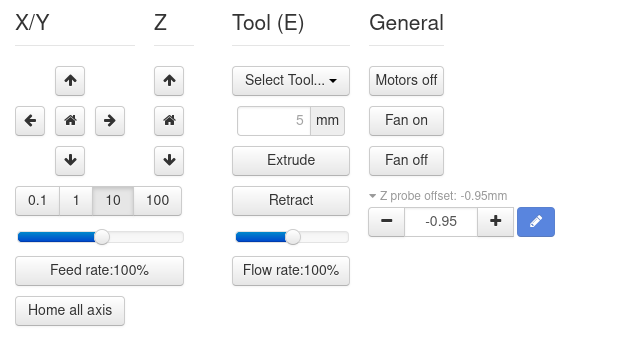
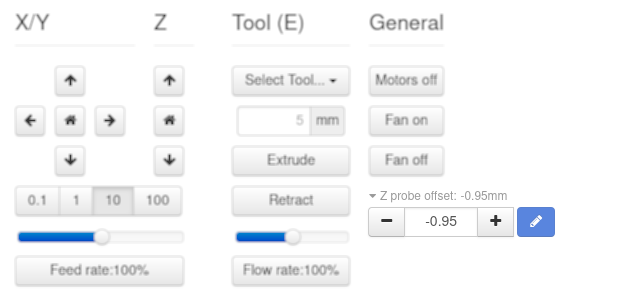
z_probe_offset (#540)
Update descripton and screenshot

diff --git a/_plugins/z_probe_offset.md b/_plugins/z_probe_offset.md
@@ -3,7 +3,7 @@ layout: plugin
 
 id: z_probe_offset
 title: Z Probe Offset Control
-description: "Control the z probe offset on marlin based printers. Warning: this plugin is on its early stage of developpement. Use with caution and please report any issues on the git repository. Improvement suggestions are welcome as well."
+description: "Add input to the control view for editing the z probe offset on marlin based printers"
 author: razer
 license: AGPLv3
 
@@ -30,8 +30,17 @@ compatibility:
 
 # Z Probe Offset Control
 
-Add input to the control tab for z probe offset value change.
-Needs Marlin firmware (1.x or 2.x) with z probe capability enabled.
+Add input to the control view for editing the z probe offset on marlin based printers.
+
+Needs Marlin firmware with z probe capability enabled.
+
+Currently, firmwares that have been tested are:
+ - Stock Marlin v1.x and v2.x
+ - Creality3D Marlin fork (Ver 1.70.0 BL)
+ - Prusa Marlin fork (Prusa-Firmware 3.9.0)
+
 Warning: this plugin is on its early stage of developpement. Use with caution and please report any issues on the git repository. Improvement suggestions are welcome as well.
+
+If your firmware is a marlin derivate and is not listed as tested, [please report it as a working one](https://framagit.org/razer/octoprint_z_probe_offset/-/issues) in order to add it to the list, or [report any issues](https://framagit.org/razer/octoprint_z_probe_offset/-/issues)
 
 ![screenshot](/assets/img/plugins/z_probe_offset/z_probe_offset_control.png)
